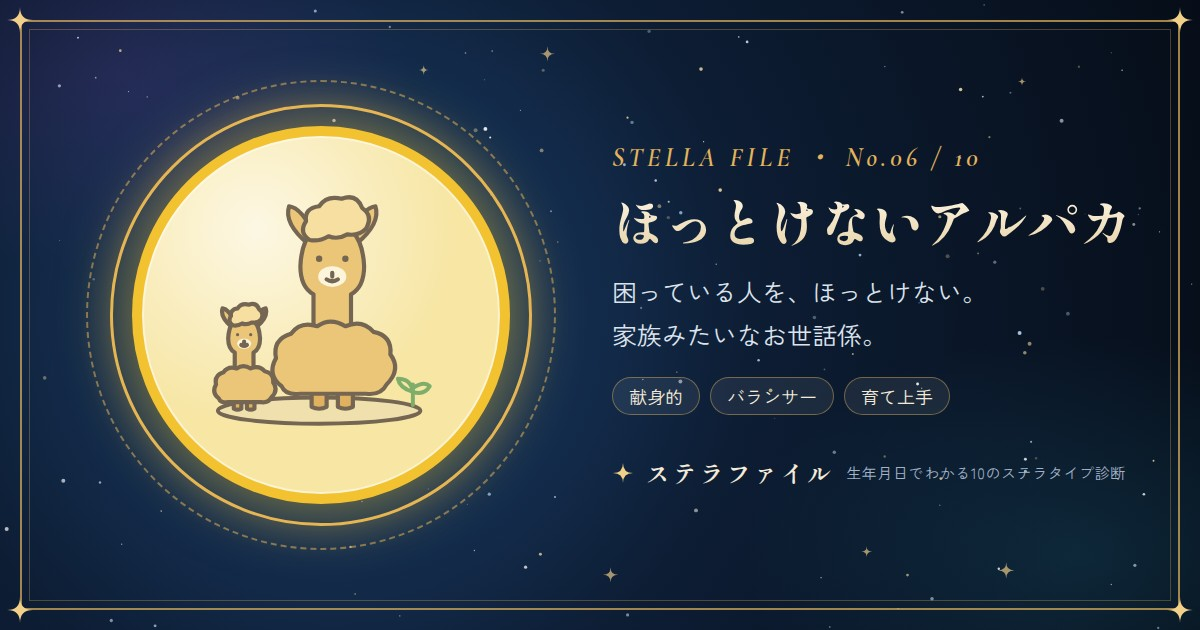
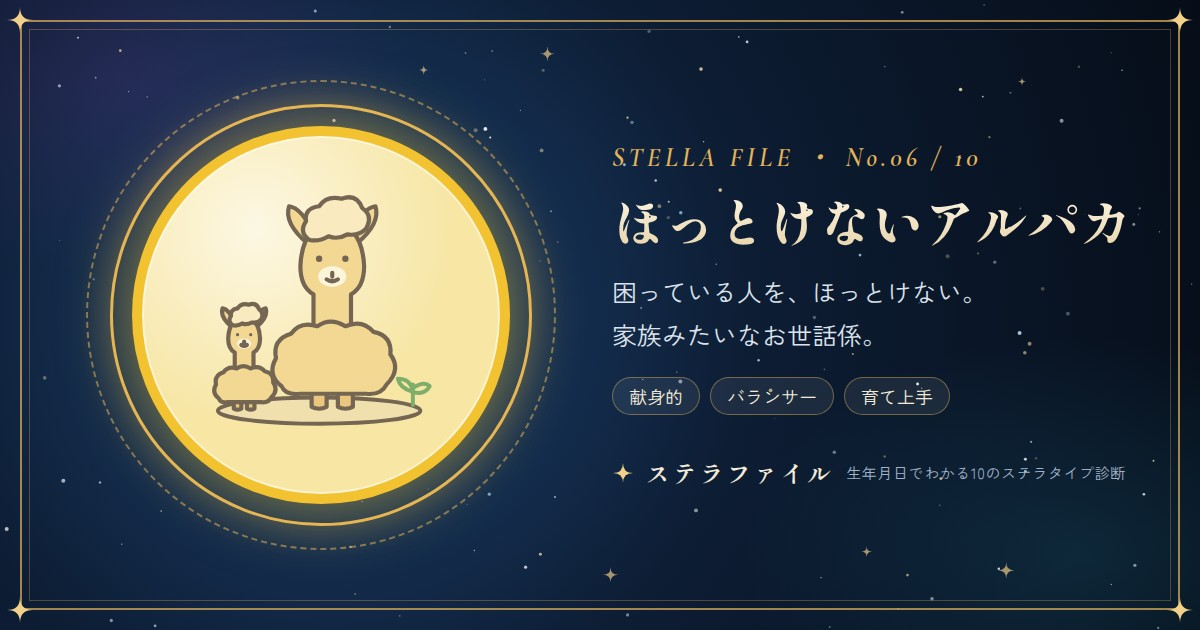
Rename the fox to お見通し妖狐 and lighten the alpaca
"とろ火" was hard to read as a personality, so 丁 becomes お見通し妖狐,
naming its observation strength like the other types. The intro no
longer says "見通す" (which clashed with the new name) and keeps the
inner-fire image as a small lamp. The alpaca's fleece is a shade
lighter and creamier. OG images regenerated; the /types/fox/ URL is
unchanged.

Claude-Session: https://claude.ai/code/session_01GAXW9NdvsHc4VH9BHs7hcc

Changed region(s): [[0.185, 0.3016, 0.3392, 0.6333]]

diff --git a/src/data/types.ts b/src/data/types.ts
@@ -25,7 +25,7 @@ export const CHARACTER_TYPES: CharacterType[] = [
   { stem: "甲", slug: "grizzly", displayName: "ほめ待ちグリズリー", shortCatch: "頼れるしっかり者。でも本当は、ほめてほしい。", summary: "まっすぐで、決めたことをコツコツ積み上げるタイプ。さっぱりした性格で、曲がったことやずるいことが大嫌いです。リーダーを任されるのは嫌いじゃないけれど、シャイなので自分から名乗り出るのは少し苦手。任されてほめられると、実はとてもうれしい。頼もしさと、素直でかわいいところのギャップが魅力です。", strengths: ["コツコツ努力を積み重ねられる", "曲がったことをしないまっすぐさ", "しんどくても投げ出さない忍耐力"], keywords: ["まっすぐ", "さっぱり", "コツコツ"], motif: "大きな木", props: ["小さな胸のリボン"], backgroundMotifs: ["若葉", "控えめな花丸"], imagePrompt: "A sturdy honey-brown grizzly with a pale cream bib, sitting upright, paws shyly together, tiny leaf-green ribbon on chest, quietly waiting for praise; one small green sprout beside it." },
   { stem: "乙", slug: "rabbit", displayName: "ちゃっかりうさぎ", shortCatch: "人に合わせるのが上手。気づけば、いいポジションにいる。", summary: "人に合わせるのが上手で、自然とかわいがられるタイプ。「面倒を見てあげたい」「守ってあげたい」と思われやすく、人と仲良くなったことがきっかけで、得をしたりチャンスをもらえたりします。友だちも多くなりやすい、人間関係に恵まれやすい人です。", strengths: ["相手に合わせるのが上手", "かわいがられて、助けてもらいやすい", "人との縁をチャンスに変えられる"], keywords: ["人に合わせ上手", "かわいがられ上手", "ちゃっかり"], motif: "草花", props: ["小さな花のアクセサリー"], backgroundMotifs: ["クローバー"], imagePrompt: "An ivory rabbit with long rounded ears, one foot lifted lightly, a tiny four-leaf clover tucked behind one ear, a small clover at its feet, knowing but kind expression." },
   { stem: "丙", slug: "phoenix", displayName: "勝手に主役フェニックス", shortCatch: "いるだけで場が明るくなる、生まれつきの主役。", summary: "根っから明るい、太陽のようなタイプ。ほかのタイプと比べても圧倒的にポジティブで、一緒にいる人まで元気で前向きな気持ちにしてくれます。顔や名前を覚えてもらいやすく、目立ってこそ輝く、まさに人生の主役です。", strengths: ["根っからのポジティブさ", "周りを元気で前向きな気持ちにできる", "顔や名前を覚えてもらいやすい"], keywords: ["ポジティブ", "目立ってなんぼ", "ムードメーカー"], motif: "太陽", props: ["小さな丸いステージ"], backgroundMotifs: ["短い光の線"], imagePrompt: "A small coral-red phoenix with a cream belly and golden beak, a simple three-feather crest, wings open on a tiny round gold stage, three short sunshine rays, cheerfully unaware it is the star." },
-  { stem: "丁", slug: "fox", displayName: "とろ火の妖狐", shortCatch: "人一倍よく見ている。だから、誰より気がきく。", summary: "観察力が人一倍強く、ほかの人が見落とす細かいところまで見えているタイプ。だからこそ、言われる前に相手の変化に気づけて、気がきく人と言われます。目の前のものをじっくり見るのが得意で、好きなことにはマニアックなほどこだわる職人気質です。", strengths: ["ほかの人が気づかないことに気づける", "細かいところまでこだわれる職人気質", "人間観察が上手"], keywords: ["観察力", "気がきく", "職人気質"], motif: "灯火", props: ["小さな灯り"], backgroundMotifs: ["細い三日月"], imagePrompt: "A calm white fox with vermilion-red inner ears and short red brow markings, a single large curled vermilion-red tail and rounded ears, sitting beside a tiny warm candle in a clay holder, one small crescent moon, modest closed-mouth smile." },
+  { stem: "丁", slug: "fox", displayName: "お見通し妖狐", shortCatch: "人一倍よく見ている。だから、誰より気がきく。", summary: "観察力が人一倍強く、ほかの人が見落とす細かいところまで見えているタイプ。だからこそ、言われる前に相手の変化に気づけて、気がきく人と言われます。目の前のものをじっくり見るのが得意で、好きなことにはマニアックなほどこだわる職人気質です。", strengths: ["ほかの人が気づかないことに気づける", "細かいところまでこだわれる職人気質", "人間観察が上手"], keywords: ["観察力", "気がきく", "職人気質"], motif: "灯火", props: ["小さな灯り"], backgroundMotifs: ["細い三日月"], imagePrompt: "A calm white fox with vermilion-red inner ears and short red brow markings, a single large curled vermilion-red tail and rounded ears, sitting beside a tiny warm candle in a clay holder, one small crescent moon, modest closed-mouth smile." },
   { stem: "戊", slug: "panda", displayName: "親分パンダ", shortCatch: "どっしり構えて、ぶれない。頼れるみんなの親分。", summary: "どっしり構えて、自分の軸をぶらさないタイプ。流行に流されず、好きなものはずっと好き。親分肌で、頼られるとうれしくなって面倒を見てしまいます。ふだんは穏やかですが、内側にはマグマのような激しさを秘めていて、いざというときの度胸はピカイチです。", strengths: ["自分の軸をぶらさない", "いざというときの度胸", "頼ってくれる人を最後まで守れる"], keywords: ["どっしり", "親分肌", "度胸"], motif: "山", props: ["お茶のカップ"], backgroundMotifs: ["小さな丘"], imagePrompt: "A round ivory and charcoal panda sitting with a broad reassuring posture, holding a tiny mustard-yellow teacup, a simple low hill line behind, gentle dependable expression." },
   { stem: "己", slug: "alpaca", displayName: "ほっとけないアルパカ", shortCatch: "困っている人を、ほっとけない。家族みたいなお世話係。", summary: "献身的で面倒見がよく、家族のようにみんなのお世話をしてしまうタイプ。和を大事にするバランサーで、人を育てるのが得意です。ただ、心配しすぎて大変な役まで引き受け、我慢をためこんでしまうことも。どこか独特な雰囲気を持つ、愛されキャラです。", strengths: ["家族のように人を思いやれる献身さ", "場の和を保つバランス感覚", "人をじっくり育てられる"], keywords: ["献身的", "バランサー", "育て上手"], motif: "畑", props: ["寄り添う子どものアルパカ"], backgroundMotifs: ["芽吹き"], imagePrompt: "A fluffy golden-cream alpaca standing front-facing with a big soft topknot, banana-shaped ears and a long fluffy neck, a small baby alpaca snuggled at its side, one sprout beside them, gentle worried-but-kind expression." },
   { stem: "庚", slug: "doberman", displayName: "正々堂々ドーベルマン", shortCatch: "遠回しな言い方は苦手。でも、誰より義理がたい。", summary: "白黒はっきりさせたい、筋の通ったタイプ。ずるや嘘が本当に苦手で、義理は何より大切にします。ストレートなぶん衝突も多く、好き嫌いがはっきり分かれやすい人。でも、好きになってくれる人からはとことん好かれます。", strengths: ["何より義理を守れる", "ずるや嘘をしないまっすぐさ", "問題から逃げずに向き合える"], keywords: ["義理がたい", "まっすぐ", "好き嫌いが分かれる"], motif: "鉄", props: ["小さな盾のバッジ"], backgroundMotifs: ["一本の旗"], imagePrompt: "A friendly silver-gray doberman with a white muzzle and natural soft floppy ears, upright but rounded posture, a small gold shield badge on a steel-blue collar, tiny white flag planted next to it, earnest expression, never aggressive." },

diff --git a/src/data/type-details.ts b/src/data/type-details.ts
@@ -48,8 +48,8 @@ export const TYPE_DETAILS: Record<string, TypeDetail> = {
   },
   fox: {
     intro: [
-      "とろ火の妖狐は、観察力が人一倍強いタイプです。人の表情や声のトーン、その場のちょっとした変化まで、ほかの人よりずっと細かいところが見えています。「気がきくね」と言われることが多いのは、全部見えているからこそです。",
-      "遠い先を見通すより、目の前のものをじっくり観察するのが得意。好きなことにはマニアックなほどのめり込み、職人のようなこだわりを見せます。人間観察が上手な人も多く、静かに見えて、心の中ではとろ火のように熱が燃え続けています。",
+      "お見通し妖狐は、観察力が人一倍強いタイプです。人の表情や声のトーン、その場のちょっとした変化まで、ほかの人よりずっと細かいところが見えています。「気がきくね」と言われることが多いのは、全部見えているからこそです。",
+      "遠い未来を思い描くより、目の前のものをじっくり観察するのが得意。好きなことにはマニアックなほどのめり込み、職人のようなこだわりを見せます。人間観察が上手な人も多く、静かに見えて、心の中では小さな灯りのような熱がずっと燃え続けています。",
     ],
     aruaru: ["人の髪型や服装の変化に、すぐ気づく", "ほかの人が見落としたミスを、つい見つけてしまう", "カフェや電車で、つい人間観察をしてしまう", "趣味の話になると、マニアックすぎて引かれることがある", "お気に入りのお店や道具は、とことん使い込む", "気づいたことをそのまま言って、場が凍ったことがある"],
     weakness: "気づいてしまうからこその悩みがあります。見えたことをそのまま口にして、相手が言われたくない事実まで言ってしまうことも。悪気はなくても、それがトラブルの元になり、人間関係で悩んでしまうことがあります。",
